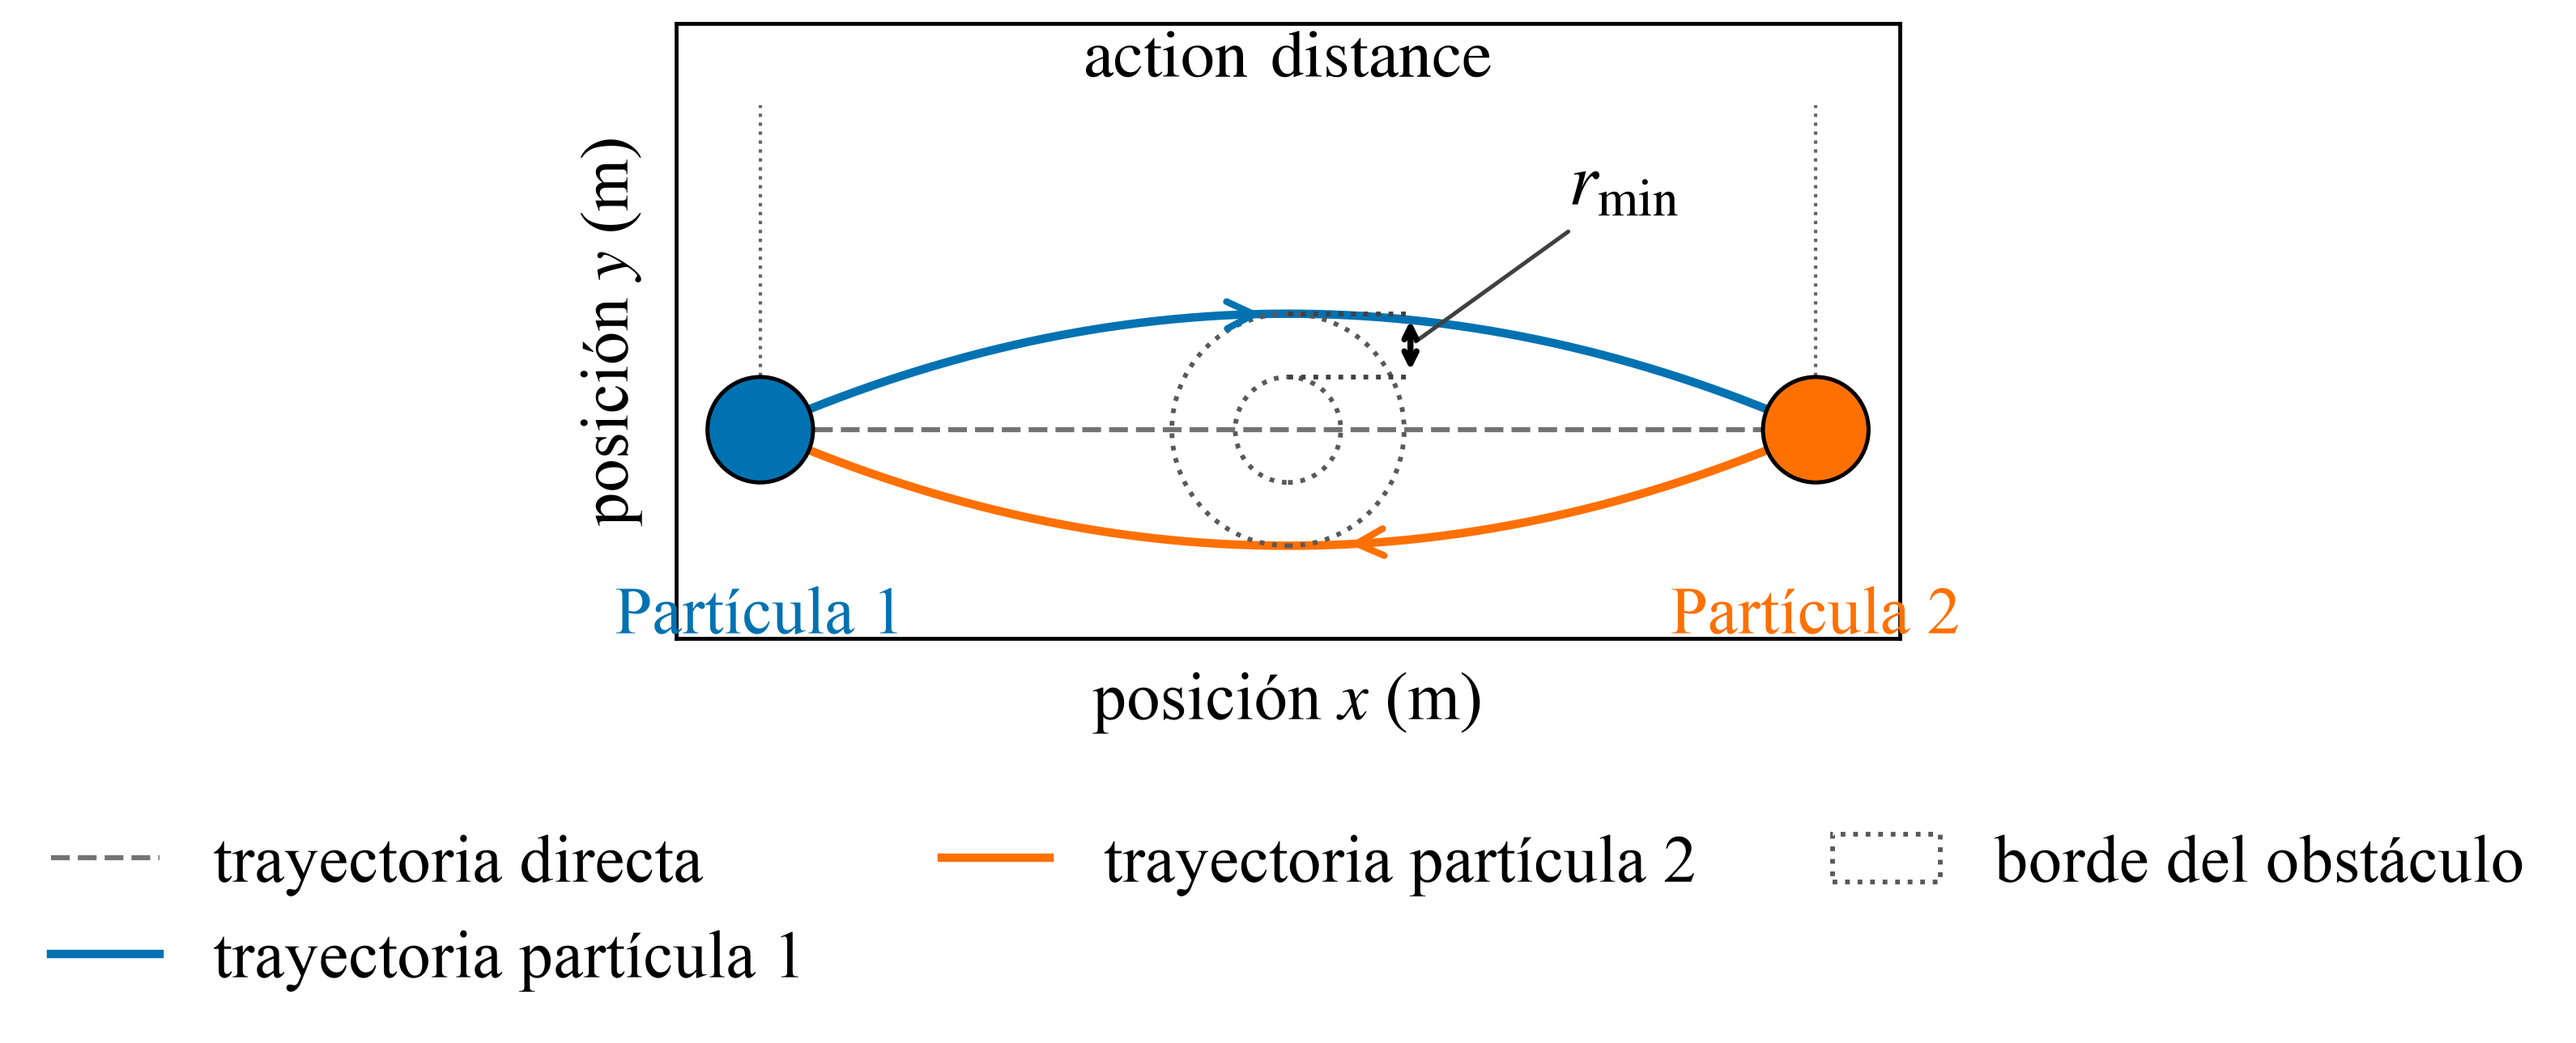
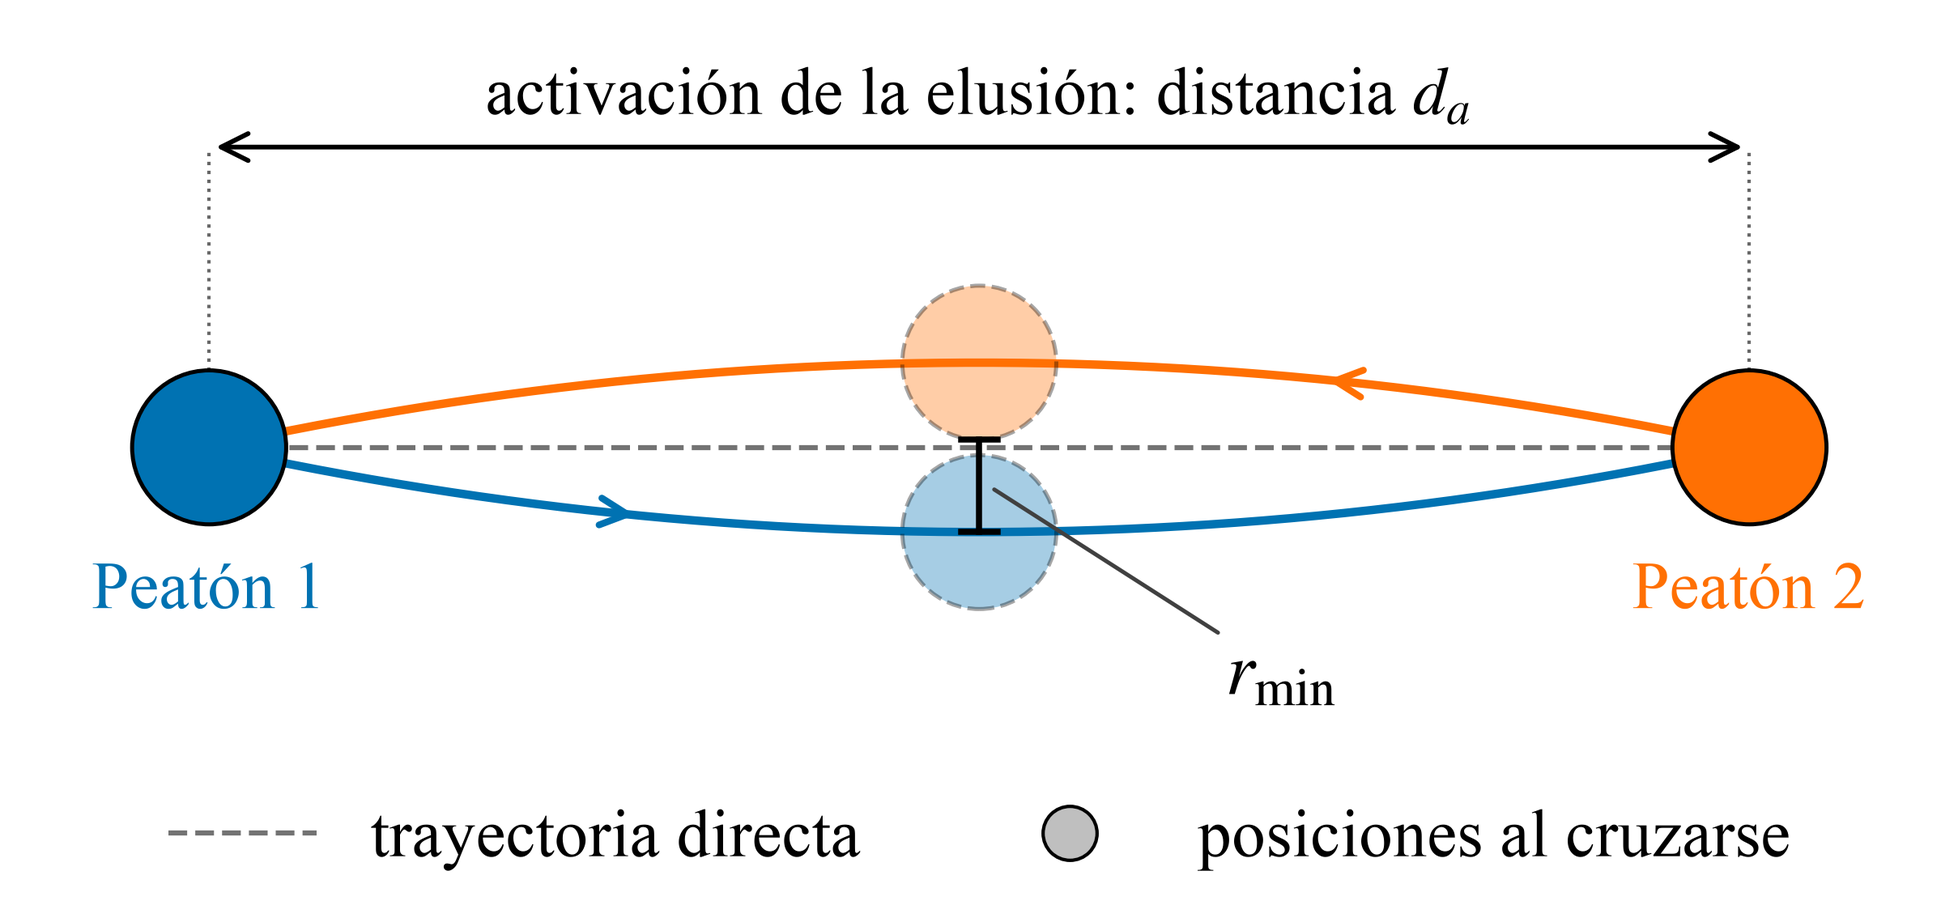
simulaciones

diff --git a/scripts/plot_elusion.py b/scripts/plot_elusion.py
@@ -10,128 +10,83 @@ matplotlib.use("Agg")
 
 import matplotlib.pyplot as plt
 import numpy as np
+from matplotlib.lines import Line2D
 from matplotlib.patches import Circle
 
-from lib.plot_style import BLUE, VERMILLION, apply_academic_style, style_axes
+from lib.plot_style import BLUE, VERMILLION, apply_academic_style
 
 REPO_ROOT = Path(__file__).resolve().parents[1]
 DEFAULT_OUTPUT = REPO_ROOT / "docs/presentation/images/cuadro_inicial.png"
 
 
 def create_figure(action_distance: float, r_min: float, radius: float):
+    """Esquema del sistema: dos peatones enfrentados a la distancia de acción.
+
+    Cada uno esquiva por su derecha. Al cruzarse, el centro de uno queda a r_min
+    del borde del otro, o sea a r + r_min entre centros, que es a lo que apunta
+    la capa de elusión (R = r_min + r_j en quadratic_heuristic.cpp).
+    """
     half_distance = action_distance / 2
-    clearance = radius + r_min
+    separation = radius + r_min           # distancia entre centros al cruzarse
+    amplitude = separation / 2            # desvío lateral de cada peatón
     x = np.linspace(-half_distance, half_distance, 400)
     progress = (x + half_distance) / action_distance
-    offset = clearance * 4 * progress * (1 - progress)
+    offset = amplitude * 4 * progress * (1 - progress)
 
     apply_academic_style()
-    fig, ax = plt.subplots(figsize=(11, 5))
+    fig, ax = plt.subplots(figsize=(11, 4.2))
 
     ax.plot(x, np.zeros_like(x), color="0.45", linestyle="--", linewidth=1.5,
             label="trayectoria directa")
-    ax.plot(x, offset, color=BLUE, linewidth=2.5, label="trayectoria partícula 1")
-    ax.plot(x, -offset, color=VERMILLION, linewidth=2.5,
-            label="trayectoria partícula 2")
-    ax.add_patch(
-        Circle(
-            (0, 0),
-            radius,
-            fill=False,
-            edgecolor="0.35",
-            linestyle=":",
-            linewidth=1.4,
-            label="borde del obstáculo",
-            zorder=2,
-        )
-    )
-
-    arrow_index = 180
-    ax.annotate(
-        "",
-        xy=(x[arrow_index + 12], offset[arrow_index + 12]),
-        xytext=(x[arrow_index], offset[arrow_index]),
-        arrowprops={"arrowstyle": "->", "color": BLUE, "lw": 2},
-    )
-    ax.annotate(
-        "",
-        xy=(x[220], -offset[220]),
-        xytext=(x[232], -offset[232]),
-        arrowprops={"arrowstyle": "->", "color": VERMILLION, "lw": 2},
-    )
+    # peatón 1 (azul) camina hacia +x y esquiva por su derecha (abajo); el 2, al revés
+    ax.plot(x, -offset, color=BLUE, linewidth=2.5)
+    ax.plot(x, offset, color=VERMILLION, linewidth=2.5)
+    ax.annotate("", xy=(x[112], -offset[112]), xytext=(x[100], -offset[100]),
+                arrowprops={"arrowstyle": "->", "color": BLUE, "lw": 2})
+    ax.annotate("", xy=(x[288], offset[288]), xytext=(x[300], offset[300]),
+                arrowprops={"arrowstyle": "->", "color": VERMILLION, "lw": 2})
 
     for center_x, color in ((-half_distance, BLUE), (half_distance, VERMILLION)):
         ax.add_patch(Circle((center_x, 0), radius, facecolor=color, edgecolor="black",
                             linewidth=1.2, zorder=5))
+    # posiciones al cruzarse
+    for center_y, color in ((-amplitude, BLUE), (amplitude, VERMILLION)):
+        ax.add_patch(Circle((0, center_y), radius, facecolor=color, edgecolor="black",
+                            linewidth=1.2, linestyle="--", alpha=0.35, zorder=4))
 
-    dimension_y = 2.8 * clearance
+    dimension_y = amplitude + radius + 0.45
     for center_x in (-half_distance, half_distance):
-        ax.plot([center_x, center_x], [0, dimension_y], color="0.4",
+        ax.plot([center_x, center_x], [radius, dimension_y], color="0.4",
                 linestyle=":", linewidth=1)
-    ax.annotate(
-        "",
-        xy=(half_distance, dimension_y),
-        xytext=(-half_distance, dimension_y),
-        arrowprops={"arrowstyle": "<->", "color": "black", "lw": 1.4},
-    )
-    ax.text(
-        0,
-        dimension_y + 0.12 * clearance,
-        r"$\mathrm{action\ distance}$",
-        ha="center",
-        va="bottom",
-    )
+    ax.annotate("", xy=(half_distance, dimension_y), xytext=(-half_distance, dimension_y),
+                arrowprops={"arrowstyle": "<->", "color": "black", "lw": 1.4})
+    ax.text(0, dimension_y + 0.06, r"activación de la elusión: distancia $d_a$", ha="center", va="bottom")
 
     if r_min > 0:
-        ax.add_patch(
-            Circle((0, 0), clearance, fill=False, edgecolor="0.35",
-                   linestyle=":", linewidth=1.4, zorder=2)
-        )
-        dimension_x = clearance + 0.12 * radius
-        ax.plot([0, dimension_x], [radius, radius], color="0.25",
-                linestyle=":", linewidth=1.4)
-        ax.plot([0, dimension_x], [clearance, clearance], color="0.25",
-                linestyle=":", linewidth=1.4)
-        ax.annotate(
-            "",
-            xy=(dimension_x, clearance),
-            xytext=(dimension_x, radius),
-            arrowprops={
-                "arrowstyle": "<->",
-                "color": "black",
-                "lw": 1.8,
-                "mutation_scale": 9,
-            },
-            zorder=8,
-        )
-        ax.annotate(
-            r"$r_{\min}$",
-            xy=(dimension_x, (radius + clearance) / 2),
-            xytext=(dimension_x + 0.15 * action_distance,
-                    clearance + 0.12 * action_distance),
-            fontsize=22,
-            ha="left",
-            va="center",
-            arrowprops={"arrowstyle": "-", "color": "0.25", "lw": 1.2},
-        )
-    else:
-        ax.text(0.18 * action_distance, 1.5 * clearance, r"$r_{\min}$",
-                ha="left", va="center")
+        # r_min: del centro del peatón 1 al borde del peatón 2, al cruzarse
+        y_from, y_to = -amplitude, amplitude - radius
+        ax.plot([0, 0], [y_from, y_to], color="black", linewidth=1.8, zorder=8)
+        for y_tick in (y_from, y_to):
+            ax.plot([-0.06, 0.06], [y_tick, y_tick], color="black", linewidth=1.8, zorder=8)
+        ax.annotate(r"$r_{\min}$", xy=(0.03, (y_from + y_to) / 2),
+                    xytext=(0.16 * action_distance, -amplitude - radius - 0.22),
+                    fontsize=22, ha="left", va="center",
+                    arrowprops={"arrowstyle": "-", "color": "0.25", "lw": 1.2}, zorder=9)
 
-    ax.text(-half_distance, -1.35 * clearance, "Partícula 1", color=BLUE,
-            ha="center", va="top")
-    ax.text(half_distance, -1.35 * clearance, "Partícula 2", color=VERMILLION,
-            ha="center", va="top")
+    ax.text(-half_distance, -radius - 0.12, "Peatón 1", color=BLUE, ha="center", va="top")
+    ax.text(half_distance, -radius - 0.12, "Peatón 2", color=VERMILLION, ha="center", va="top")
 
-    x_margin = max(radius, 0.08 * action_distance)
+    x_margin = max(2.4 * radius, 0.1 * action_distance)
     ax.set_xlim(-half_distance - x_margin, half_distance + x_margin)
-    ax.set_ylim(-1.8 * clearance, 3.5 * clearance)
+    ax.set_ylim(-amplitude - radius - 0.5, dimension_y + 0.4)
     ax.set_aspect("equal", adjustable="box")
-    style_axes(ax, r"posición $x$ (m)", r"posición $y$ (m)")
-    ax.set_xticks([])
-    ax.set_yticks([])
-    ax.tick_params(axis="both", which="both", length=0)
-    ax.legend(loc="upper center", bbox_to_anchor=(0.5, -0.22), ncol=3, frameon=False)
+    ax.axis("off")
+    handles, labels = ax.get_legend_handles_labels()
+    handles.append(Line2D([], [], marker="o", linestyle="none", markersize=16, markerfacecolor="0.75",
+                          markeredgecolor="black"))
+    labels.append("posiciones al cruzarse")
+    ax.legend(handles, labels, loc="upper center", bbox_to_anchor=(0.5, 0.02), ncol=2,
+              frameon=False, columnspacing=2.0, handlelength=2.2)
     fig.tight_layout()
     return fig
 

diff --git a/docs/presentation/secciones/simulaciones.tex b/docs/presentation/secciones/simulaciones.tex
@@ -1,77 +1,92 @@
-\begin{frame}{Sistema}
-  \begin{cols}
-    \begin{column}{0.66\textwidth}
-      \siimagen{cuadro_inicial.png}{%
-        \makebox[\linewidth][c]{\includegraphics[width=\linewidth,height=0.88\textheight,keepaspectratio]{cuadro_inicial.png}}%
-      }{%
-        \makebox[\linewidth][c]{\framebox[\linewidth][c]{\rule{0pt}{5cm}\textit{falta la figura}}}%
-      }
+\begin{frame}{Simulaciones}
+  \framesubtitle{Sistema: dos peatones en curso de colisión}
+  \begin{columns}[c]
+    \begin{column}{0.64\textwidth}
+      \centering
+      \includegraphics[width=\linewidth,height=0.72\textheight,keepaspectratio]{cuadro_inicial.png}
     \end{column}
-    \begin{column}{0.30\textwidth}
-      \begin{parametros}[Parámetros fijos]
-        \item $R = 0.51\uni{m}$
-        \item $r = 0.0175\uni{m}$
-        \item $m = 0.025\uni{kg}$
-        \item $|v_0| = 1\uni{m/s}$
-        \item $k = 10^{4}\uni{N/m}$
-      \end{parametros}
-      \vspace{4pt}
-      \begin{parametros}[Parámetros variables]
-        \item $N$
-        \item $x_o$
-      \end{parametros}
-      \vspace{6pt}
-      {\small Densidad: $\phi = N(r/R)^2$}
-    \end{column}
-  \end{cols}
-\end{frame}
-
-\begin{frame}{Observables}
-  \begin{columns}[T]
-    \begin{column}{0.48\textwidth}
-      \small
-      \begin{itemize}\setlength{\itemsep}{12pt}
-        \item $F_u(t) = N_u(t)/N$
-        \item $t_{90} = \min\{t : F_u(t) \geq 0.9\}$
-        \item $t_{100} = \min\{t : N_u(t) = N\}$
-      \end{itemize}
-    \end{column}
-    \begin{column}{0.50\textwidth}
-      \small
-      \begin{itemize}\setlength{\itemsep}{12pt}
-        \item Deriva: $\max_t |E(t) - E(0)|/|E(0)|$
-        \item $f(v) = N_i/(N\,\Delta v)$, con $v = |\vv{v}|$
-        \item $\displaystyle f_{MB}(v) = \frac{m v}{k_B T}\exp\!\left(-\frac{m v^2}{2 k_B T}\right)$
-      \end{itemize}
+    \begin{column}{0.33\textwidth}
+      \begin{beamercolorbox}[wd=\linewidth,sep=8pt,rounded=true]{block body alerted}
+        \small\textbf{Parámetros a calibrar}\par\vspace{6pt}
+        $p_1 = r_{min}$: separación lateral de referencia\par\vspace{6pt}
+        $p_2 = d_a$: distancia de activación de la elusión
+      \end{beamercolorbox}
     \end{column}
   \end{columns}
-  \vspace{14pt}
-  \small
-  Sobre $M$ realizaciones, para $X = t_{90},\, t_{100},\, F_u(t),\, f(v)$:
+\end{frame}
+
+\begin{frame}{Simulaciones}
+  \framesubtitle{Eventos experimentales y parámetros fijos}
+  \begin{columns}[c]
+    \begin{column}{0.54\textwidth}
+      \begin{beamercolorbox}[wd=\linewidth,sep=8pt,rounded=true]{block body}
+        \small\textbf{Eventos experimentales}\par\vspace{4pt}
+        \begin{itemize}\setlength{\itemsep}{6pt}
+          \item $M = 18$ eventos, intervalo de muestreo $\Delta t_{exp} \approx 0.0666\uni{s}$
+          \item Por evento: $\vv{r}_i(0)$, $\vv{v}_i(0)$, $v_{di}$ y $t_f$
+          \item Target final: posición inicial del otro peatón
+          \item $5$ eventos espejados: $y' = 2\,y_0 - y$
+        \end{itemize}
+      \end{beamercolorbox}
+    \end{column}
+    \begin{column}{0.38\textwidth}
+      \begin{beamercolorbox}[wd=\linewidth,sep=8pt,rounded=true]{block body}
+        \small\textbf{Parámetros fijos}\par\vspace{6pt}
+        \renewcommand{\arraystretch}{1.25}
+        \begin{tabular}{@{}l@{\qquad}l@{}}
+          Radio $r_i$ & $0.25\uni{m}$ \\
+          Masa $m_i$ & $80\uni{kg}$ \\
+          $\tau_i$ & $0.5\uni{s}$ \\
+          $k_n$ & $1.2\ten{5}\uni{N/m}$ \\
+          $k_t$ & $2.4\ten{5}\uni{kg/(m\,s)}$ \\
+        \end{tabular}\par\vspace{4pt}
+        {\footnotesize Helbing et al. (2000)}
+      \end{beamercolorbox}
+    \end{column}
+  \end{columns}
+\end{frame}
+
+\begin{frame}{Simulaciones}
+  \framesubtitle{Observables}
+  Error del peatón $i$ del evento $m$ \ ($N_m$ instantes $t_k = k\,\Delta t_{exp}$):
   \[
-    \langle X\rangle = \frac{1}{M}\sum_{k=1}^{M} X^{(k)},
-    \qquad
-    \sigma_X = \sqrt{\frac{1}{M-1}\sum_{k=1}^{M}\big(X^{(k)} - \langle X\rangle\big)^2}
+    E^{(1)}_i = \frac{1}{N_m}\sum_{k}\big|\vv{r}^{\,exp}_i(t_k) - \vv{r}^{\,sim}_i(t_k)\big|^2
+    \qquad\quad
+    E^{(2)}_i = \frac{1}{N_m}\sum_{k}\min_{j}\big|\vv{r}^{\,exp}_i(t_k) - \vv{r}^{\,sim}_i(t_j)\big|^2
+  \]
+  \vspace{2pt}
+  Error del evento y error poblacional:
+  \[
+    E_m = \frac{E_1 + E_2}{2}
+    \qquad\quad
+    \langle E\rangle(r_{min},\,d_a) = \frac{1}{M}\sum_{m=1}^{M} E_m(r_{min},\,d_a)
+  \]
+  \vspace{2pt}
+  Error estándar de $\langle E\rangle$:
+  \[
+    \sigma_{\langle E\rangle} = \frac{1}{\sqrt{M}}\sqrt{\frac{1}{M-1}\sum_{m=1}^{M}\big(E_m - \langle E\rangle\big)^2}
   \]
 \end{frame}
 
-\begin{frame}{Simulaciones realizadas}
-  \begin{columns}
-    \begin{column}{0.80\textwidth}
-      \centering
-      \small
-      \begin{tabular}{lllll}
-        \hline
-        Punto & $N$ & $x_o$ & Duración & $M$ \\
-        \hline
-        2.1a & $300$ & sin obstáculos & $30\uni{s}$ & $1$ \\
-        2.1b & $10$ a $650$ & $r$ & $30\uni{s}$ & $10$ \\
-        2.2 & $20$ y $100$ & $9$ valores de $r$ a $R - r$ & $100\uni{s}$ & $30$ \\
-        2.3 & $100$ & sin obstáculos & $10\uni{s}$ & $10$ \\
-        2.4a & $10$ a $650$ & $r$ & hasta $N_u = N$ & $10$ \\
-        2.4b & $20$ a $400$ & $9$ valores de $r$ a $R - r$ & hasta $N_u = N$ & $30$ \\
-        \hline
-      \end{tabular}
-    \end{column}
-  \end{columns}
+\begin{frame}{Simulaciones}
+  \framesubtitle{Simulaciones realizadas}
+  \textbf{Grilla de parámetros}
+  \begin{itemize}\setlength{\itemsep}{3pt}
+    \item $r_{min}$: $0.10$ a $0.50\uni{m}$, paso $0.05\uni{m}$ \ ($9$ valores)
+    \item $d_a$: $2.5$ a $7\uni{m}$, paso $0.5\uni{m}$ \ ($10$ valores)
+    \item $90$ puntos de grilla $\times$ $18$ eventos $= 1620$ simulaciones
+    \item Duración: $t_f$ de cada evento \ ($5.3$ a $8.9\uni{s}$)
+  \end{itemize}
+  \vspace{8pt}
+  \textbf{Estudios} (por métrica)
+  \vspace{3pt}
+
+  \centering
+  \begin{tabular}{ll}
+    \hline
+    Calibración poblacional & mínimo de $\langle E\rangle$ en la grilla, $18$ eventos \\
+    Calibración individual  & mínimo de $E_m$ en la grilla, por evento \\
+    Validación cruzada      & $20$ particiones al azar: $13$ de entrenamiento, $5$ de validación \\
+    \hline
+  \end{tabular}
 \end{frame}

diff --git a/docs/presentation/secciones/introduccion.tex b/docs/presentation/secciones/introduccion.tex
@@ -25,7 +25,7 @@
   \vspace{4pt}
 
   \large
-  Hay conflicto entre $i$ y $j$ si
+  Conflicto entre $i$ y $j$:
   \[
     r_{ij} \leq d_a, \qquad 0 < s < D, \qquad |\ell| < R = r_{min} + r_j
   \]
